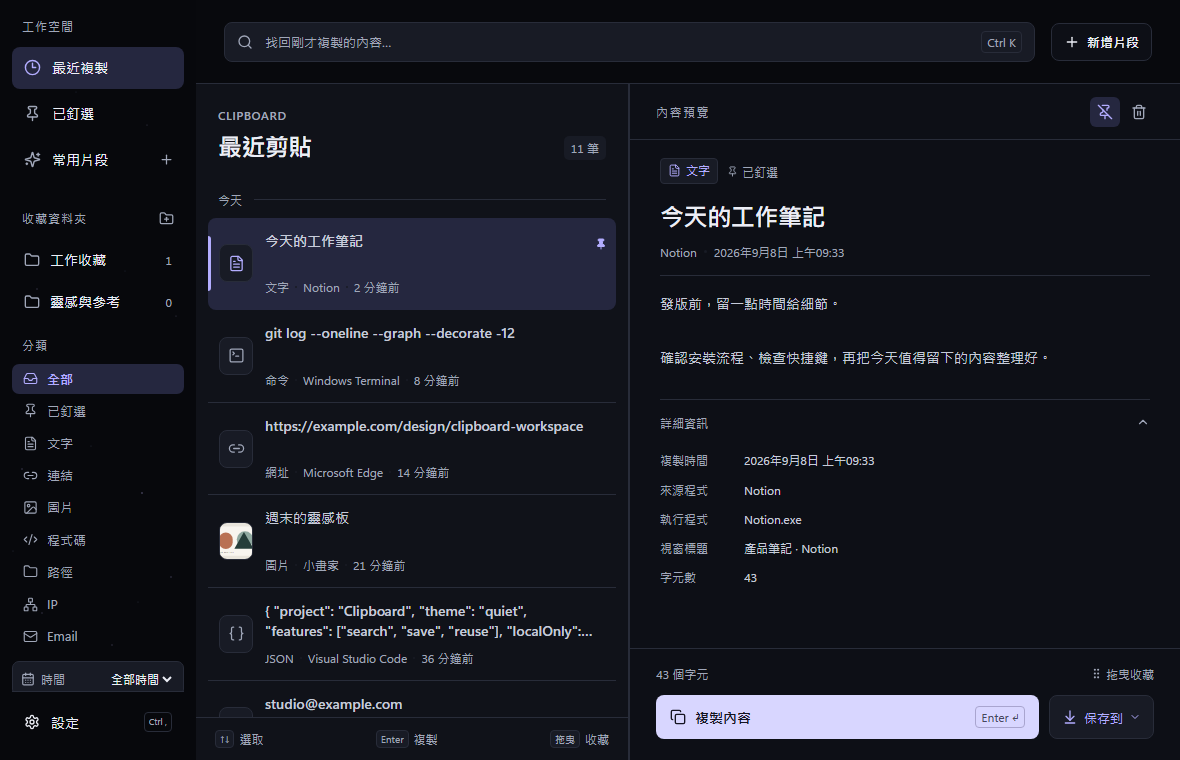
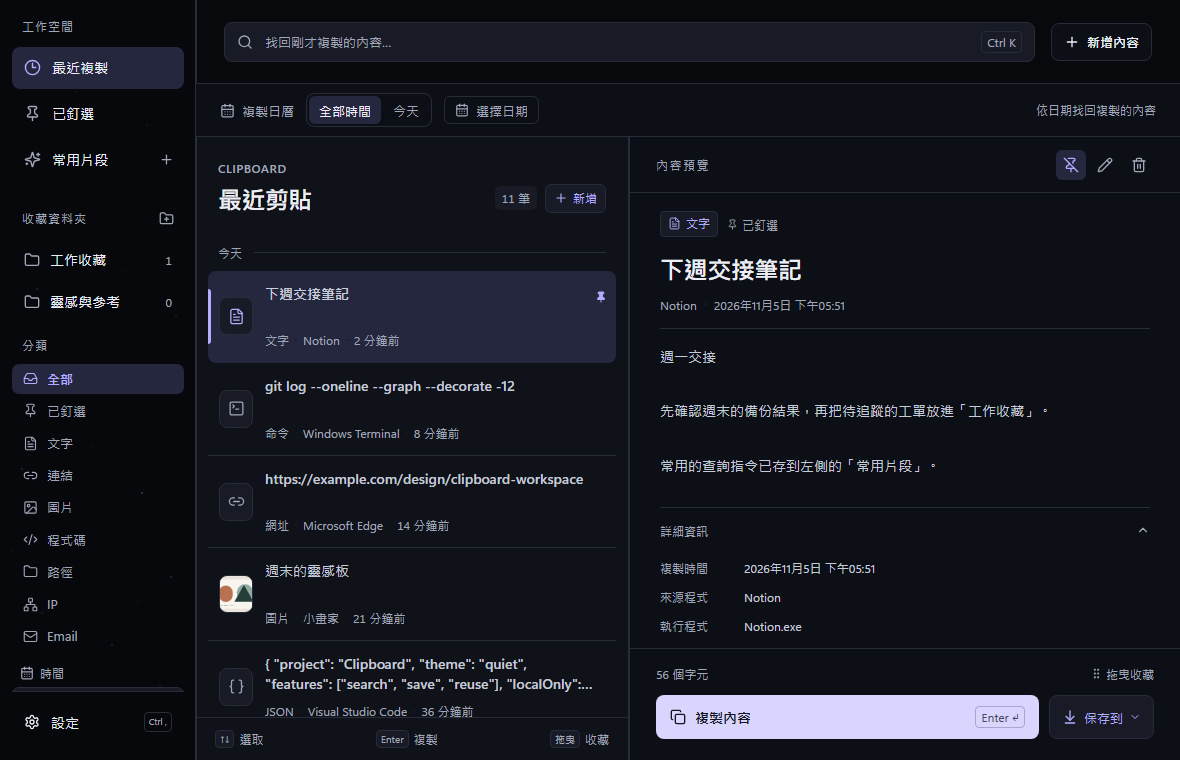
docs: put the Windows download and real workspace preview first

diff --git a/README.md b/README.md
@@ -1,164 +1,48 @@
-<p align="center">
-  <img src="docs/assets/logo.svg" width="88" alt="Clarity Clipboard Logo">
-</p>
+# 剪貼後台 · Clarity Clipboard
 
-<h1 align="center">剪貼後台 · Clarity Clipboard</h1>
+複製過的指令、連結和圖片，都能在 Windows 上按 `Alt + Z` 找回。可以用關鍵字搜尋，也可以從日曆選一天，查看那天複製了什麼。
 
-<p align="center"><strong>複製一次，隨時找回。把零散內容，整理成自己的工作記憶。</strong></p>
+**[下載 Windows x64 安裝器](https://github.com/tigerhzu/clarity-clipboard/releases/latest/download/Clarity-Setup.exe)** · [版本說明與 SHA-256](https://github.com/tigerhzu/clarity-clipboard/releases/latest) · [更新紀錄](docs/CHANGELOG.md)
 
-<p align="center">
-  <a href="https://github.com/tigerhzu/clarity-clipboard/releases/latest"><img alt="GitHub 最新版本" src="https://img.shields.io/github/v/release/tigerhzu/clarity-clipboard?style=flat-square&color=9b87f5"></a>
-  <img alt="Windows x64" src="https://img.shields.io/badge/Windows-x64-0f172a?style=flat-square&logo=windows">
-  <img alt="Tauri 2 與 React 19" src="https://img.shields.io/badge/Tauri_2-React_19-8b5cf6?style=flat-square">
-  <a href="LICENSE"><img alt="MIT License" src="https://img.shields.io/badge/License-MIT-64748b?style=flat-square"></a>
-</p>
+![剪貼後台的三欄工作區。左側選擇收藏或分類，中間搜尋歷史，右側閱讀選取的工作筆記。](docs/assets/app-preview.png)
 
-<p align="center">
-  <a href="https://github.com/tigerhzu/clarity-clipboard/releases/latest">下載安裝</a> ·
-  <a href="#三個工作區">功能介紹</a> ·
-  <a href="docs/ARCHITECTURE.md">架構與資料流</a> ·
-  <a href="docs/DEVELOPMENT.md">開發指南</a> ·
-  <a href="docs/CHANGELOG.md">更新紀錄</a>
-</p>
-
-<picture>
-  <source media="(prefers-reduced-motion: reduce)" srcset="docs/assets/hero-static.svg">
-  <img src="docs/assets/hero.svg" width="100%" alt="Clarity Clipboard：擷取、搜尋、收藏的本機工作流">
-</picture>
-
-Clarity 是 Windows 的本機剪貼簿工作區。文字、連結、程式碼與圖片在背景擷取，隨時用 `Alt + Z` 叫出搜尋；重要內容可以釘選、收進資料夾，或整理成可重複使用的個人片段。安裝後在 Windows 顯示為「剪貼後台」，視窗標題為「剪貼 · Clarity」。
-
-複製日曆會點亮有保留紀錄的日期，選取後可搭配分類與搜尋查看當天內容，也能一鍵切回全部時間。後台同一時間只啟用一個，重複開啟會喚回既有視窗。
-
-核心擷取、分類與搜尋在電腦本機完成，不需要帳號、AI API 或雲端服務。深色三欄介面以銀白文字與紫色焦點呈現內容，讓搜尋、選取與閱讀各有位置。
-
-![Clarity 三欄工作區：內容篩選、歷史清單與閱讀預覽，使用合成示範資料](docs/assets/app-preview.png)
-
-<p align="center"><sub>實際前端介面，使用隔離的合成示範資料。</sub></p>
+<sub>剪貼後台 v1.0.14，使用示範資料。點選中間的項目即可預覽，雙擊可再次複製。</sub>
 
 ## 三個工作區
 
-| 工作區 | 用來做什麼 | 主要操作 |
-| --- | --- | --- |
-| 最近複製 | 找回稍早複製的內容 | 即時搜尋、內容與時間篩選、釘選、複製、確認刪除 |
-| 收藏資料夾 | 依工作或主題保存快照 | 拖曳收藏、選擇儲存目的地、重新命名、編輯內容、拖曳排序 |
-| 常用片段（個人資料庫） | 保存常用回覆、指令與片段 | 新增標題與內容、編輯、複製、從歷史加入、拖曳排序 |
-
-所有工作區都可按「新增內容」或 `Ctrl + N` 手動新增，並在預覽按鉛筆編輯標題、內容與類型。圖片可匯入或替換 PNG、JPEG、BMP（20 MB 以下）；收藏資料夾可直接建立常用語句。
-
-### 把找到內容的時間縮短
-
-- **自動分類**：文字、URL、Email、IP、檔案／網路路徑、程式碼、JSON、指令與圖片；JSON 和指令歸入介面的「程式碼」篩選。
-- **本機搜尋**：SQLite FTS5 全文索引加上部分字串比對，可搜尋內容、來源應用程式、類型與標籤。
-- **圖片閱讀**：保存 PNG 與縮圖，按需載入預覽，點圖片可展開符合視窗比例的放大檢視。
-- **背景常駐**：關閉視窗後隱藏至通知區，仍持續監聽剪貼簿；可用通知區選單結束程式。
-- **閱讀舒適度**：標準、舒適、大字三種文字大小，預設舒適；支援最小 900 × 600 視窗。
-- **保留策略**：7、14、30 天或永久保存；釘選歷史與收藏快照不受一般歷史到期清理影響。
+| 工作區 | 用法 |
+| --- | --- |
+| **最近複製** | 搜尋內容或來源程式，也能按日期和類型縮小範圍。重要項目可以釘選。 |
+| **收藏資料夾** | 把一段指令或一張圖片拖進資料夾，留下一份獨立快照。原本的歷史到期後，收藏仍可使用。 |
+| **常用片段** | 把例行回覆或操作步驟寫成可編輯的片段，下次直接複製。三個工作區都能用 `Ctrl + N` 新增文字或圖片。 |
 
 ## 開始使用
 
-1. 前往 [GitHub Releases](https://github.com/tigerhzu/clarity-clipboard/releases/latest)，下載 `Clarity-Setup.exe`。
-2. 執行安裝程式。它會安裝至目前 Windows 使用者、建立捷徑，完成後開啟 Clarity。
-3. 複製一段文字或圖片，按 `Alt + Z` 開啟工作區。搜尋、雙擊項目即可再次複製。
-4. 在「設定 → 隱私」調整排除應用程式；在儲存設定選擇歷史保留天數。
-
-目前發行目標為 **Windows x64**。桌面介面使用 Microsoft Edge WebView2；已有執行環境時直接使用，缺少時安裝程式會透過網路下載補齊。未簽章的建置可能在 Windows 顯示未知發行者提示，下載來源與檔案雜湊請以本倉庫的 Release 為準。
-
-升級時直接執行新版安裝程式。快速安裝器會先要求正在執行的 Clarity 結束，再更新程式。本機資料目錄識別碼維持不變；如需自行備份，先從通知區完整結束 Clarity，再複製整個[資料目錄](#資料保存在你的電腦)。
-
-### 鍵盤操作
-
-| 快捷鍵 | 操作 |
-| --- | --- |
-| `Alt + Z` | 顯示／隱藏工作區，可在設定修改 |
-| `Ctrl + K` / `Ctrl + F` | 聚焦搜尋 |
-| `↑` / `↓` | 移動歷史清單選取 |
-| `Enter` | 複製選取內容（依目前焦點情境） |
-| `Ctrl + P` | 切換歷史項目釘選 |
-| `Delete` | 進入刪除確認 |
-| `Ctrl + N` | 在目前工作區新增文字或圖片 |
-| `Ctrl + ,` | 開啟設定 |
-
-## 架構一覽
-
-```mermaid
-flowchart LR
-    W[Windows 剪貼簿] --> M[事件監聽與來源辨識]
-    M --> P[隱私過濾與大小限制]
-    P --> C[分類與 SHA-256 去重]
-    C --> D[(SQLite 歷史與收藏)]
-    C --> I[本機 PNG 與縮圖]
-    D <--> S[Rust 服務層]
-    I <--> S
-    S <-->|Tauri commands / events| R[React 工作區]
-    R -->|複製指令| S
-    S -->|寫回內容| W
-```
-
-| 層級 | 技術 | 責任 |
-| --- | --- | --- |
-| 使用介面 | React 19、TypeScript 5.9、Lucide React、CSS | 搜尋、清單、預覽、收藏與設定 |
-| 前端建置 | Vite 7、pnpm | 開發伺服器、型別檢查、靜態資產 |
-| 桌面邊界 | Tauri 2、WebView2、global-shortcut | 視窗、通知區、全域快捷鍵、前後端命令 |
-| 本機核心 | Rust 2021、clipboard-win、windows-sys | 剪貼簿事件、來源辨識、分類、隱私檢查 |
-| 保存與搜尋 | rusqlite + bundled SQLite、WAL、FTS5 | 歷史、資料夾、個人片段、交易與索引 |
-| 圖片與識別 | image、SHA-256、UUID | PNG／縮圖、內容指紋、項目識別 |
-| Windows 發行 | Tauri NSIS、C# WinForms 快速安裝器 | 使用者層級安裝、升級與捷徑 |
-
-深入了解：[系統架構、資料表與隱私界線](docs/ARCHITECTURE.md)。
-
-## 資料保存在你的電腦
-
-```text
-%APPDATA%\com.tigerhzu.clarityclipboard\
-├── clipboard.db              # 歷史、收藏資料夾、個人片段：同一個 SQLite 資料庫
-├── settings.json             # 保留天數、隱私、文字大小與快捷鍵
-└── images\                   # 歷史圖片 PNG
-    ├── thumbnails\           # 歷史縮圖
-    └── collections\          # 收藏的獨立圖片快照
-        └── thumbnails\
-```
-
-應用程式沒有帳號、遙測或雲端同步，核心不直接呼叫外部 AI。選擇啟用 [Hermes 串接](docs/HERMES.md) 後，本機代理可以依你的要求讀寫指定內容，並可能將取用的文字／圖片送往它設定的模型服務。首頁徽章和 GitHub 下載頁屬於文件／發行服務，安裝 WebView2 可能連網；這些與剪貼簿內容處理分開。
-
-敏感內容過濾預設啟用，使用規則辨識常見 token、私鑰、帶標籤密碼與符合 Luhn 校驗的卡號；預設排除 1Password、Bitwarden、KeePass、KeePassXC 與遠端桌面。它不是完整防洩漏系統：未符合規則的文字或圖片仍可能被保存，手動建立片段也不經自動擷取過濾。資料庫與圖片沒有應用程式層加密，應以 Windows 帳戶與磁碟保護妥善管理。
+1. 執行 `Clarity-Setup.exe` 安裝或更新。安裝目標為目前的 Windows 使用者。缺少 WebView2 時，安裝程式會連網補齊；安裝器未簽署，下載頁提供 SHA-256 供核對。
+2. 複製一段文字，按 `Alt + Z` 叫出工作區，輸入關鍵字，按 `Enter` 再次複製選取項目。
+3. 到「設定 → 隱私」排除不想記錄的應用程式，到「儲存」選擇保留歷史的天數。關閉視窗後，程式會繼續在通知區執行。
 
 <details>
-<summary><strong>開發與驗證快速入口</strong></summary>
+<summary>鍵盤操作</summary>
 
-需準備 Node.js、pnpm、Rust MSVC 工具鏈、Visual Studio C++ Build Tools 與 WebView2。以 `package.json` 的 `packageManager` 和鎖定檔為準。
-
-```powershell
-pnpm install --frozen-lockfile
-pnpm tauri dev
-```
-
-```powershell
-pnpm build
-cargo fmt --manifest-path src-tauri/Cargo.toml --check
-cargo check --manifest-path src-tauri/Cargo.toml --locked
-cargo test --manifest-path src-tauri/Cargo.toml --locked
-pnpm package:quick
-```
-
-Playwright 介面測試使用隔離的假資料，不會讀取真實剪貼簿。完整環境、測試方式與建置指令見 [開發指南](docs/DEVELOPMENT.md)；產物與發行步驟見 [Release 指南](docs/RELEASE.md)。
+| 按鍵 | 操作 |
+| --- | --- |
+| `Alt + Z` | 顯示或隱藏工作區，可在設定修改 |
+| `Ctrl + K` 或 `Ctrl + F` | 聚焦搜尋 |
+| `↑` / `↓`、`Enter` | 選取歷史項目、複製內容 |
+| `Ctrl + P`、`Delete` | 切換釘選、開啟刪除確認 |
+| `Ctrl + N`、`Ctrl + ,` | 新增內容、開啟設定 |
 
 </details>
 
-## Tiger Hsu 工具集
+## 資料保存在你的電腦
 
-| 專案 | 使用場景 |
-| --- | --- |
-| [Freedom Wiki Assistant](https://github.com/tigerhzu/freedom-wiki-assistant) | Wiki 工作與知識整理輔助 |
-| [HaloPSA Extension](https://github.com/tigerhzu/halo-psa-extension) | HaloPSA 工作流程輔助 |
-| **Clarity Clipboard** | Windows 本機剪貼簿搜尋與收藏 |
+歷史與收藏存於本機 SQLite，圖片另存為 PNG。備份時，先從通知區結束程式，再複製整個 `%APPDATA%\com.tigerhzu.clarityclipboard` 資料夾。資料庫與圖片未加密，請留意備份的存放位置。
 
-三個專案各自安裝與運作，沒有隱含的跨工具資料同步。
+敏感內容過濾預設開啟，能辨識部分私鑰、密碼與卡號。圖片和手動新增的片段仍可能含有敏感資料。**Hermes 串接預設關閉**；啟用後，本機代理可以依指示讀寫項目，取用的內容可能傳至 Hermes 設定的模型服務。[Hermes 設定與權限](docs/HERMES.md)
 
-整體資料流與技術比較見 [三個工具的架構全景](docs/TOOLKIT.md)。
+## 開發與文件
 
-由 Tiger Hsu 維護，採 [MIT 授權](LICENSE)。設計規格見 [DESIGN.md](DESIGN.md)；問題與功能建議可提交至 [Issues](https://github.com/tigerhzu/clarity-clipboard/issues)。
+桌面端使用 Tauri、Rust 與 SQLite FTS5，介面使用 React 和 TypeScript。開發環境、建置及測試指令收錄在[開發指南](docs/DEVELOPMENT.md)。
 
-## 設計素材
-
-[Logo SVG](docs/assets/logo.svg) · [Logo PNG](docs/assets/logo.png) · [動態封面](docs/assets/hero.svg) · [靜態封面](docs/assets/hero-static.svg) · [架構圖 SVG](docs/assets/architecture.svg) · [品牌配色](docs/assets/brand.json)。首頁動畫尊重減少動態效果偏好。
+[系統架構](docs/ARCHITECTURE.md) · [介面設計](DESIGN.md) · [Windows 發行指南](docs/RELEASE.md) · [相關工具](docs/TOOLKIT.md) · [回報問題](https://github.com/tigerhzu/clarity-clipboard/issues) · [MIT 授權](LICENSE)
